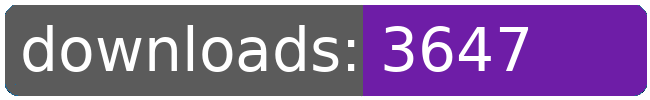
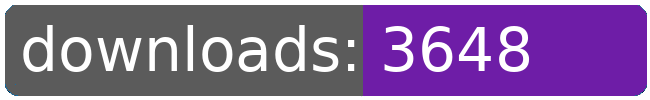
dl log written

Changed region(s): [[0.7692, 0.24, 0.8308, 0.72]]

diff --git a/README.md b/README.md
@@ -32,8 +32,8 @@
 		<td>3675</td>
 		<td>3701</td>
 		<td>3722</td>
-		<td>3726</td>
-		<td>+ 4</td>
+		<td>3727</td>
+		<td>+ 5</td>
 	</tr>
 	<tr>
 		<td>avgi.outfitter</td>
@@ -54,8 +54,8 @@
 		<td>3603</td>
 		<td>3626</td>
 		<td>3644</td>
-		<td>3647</td>
-		<td>+ 3</td>
+		<td>3648</td>
+		<td>+ 4</td>
 	</tr>
 	<tr>
 		<td>capture.archons</td>
@@ -274,8 +274,8 @@
 		<td></td>
 		<td></td>
 		<td></td>
-		<td>52223</td>
-		<td>40</td>
+		<td>52225</td>
+		<td>42</td>
 	</tr>
 </table>
 </sub></sup>
@@ -300,8 +300,8 @@
 		<td>3675</td>
 		<td>3701</td>
 		<td>3722</td>
-		<td>3726</td>
-		<td>+ 4</td>
+		<td>3727</td>
+		<td>+ 5</td>
 	</tr>
 	<tr>
 		<td>bunrodeaoutfitter</td>
@@ -311,8 +311,8 @@
 		<td>3603</td>
 		<td>3626</td>
 		<td>3644</td>
-		<td>3647</td>
-		<td>+ 3</td>
+		<td>3648</td>
+		<td>+ 4</td>
 	</tr>
 	<tr>
 		<td>1requiredcrew</td>
@@ -553,8 +553,8 @@
 		<td></td>
 		<td></td>
 		<td></td>
-		<td>52223</td>
-		<td>40</td>
+		<td>52225</td>
+		<td>42</td>
 	</tr>
 </table>
 </sub></sup>
